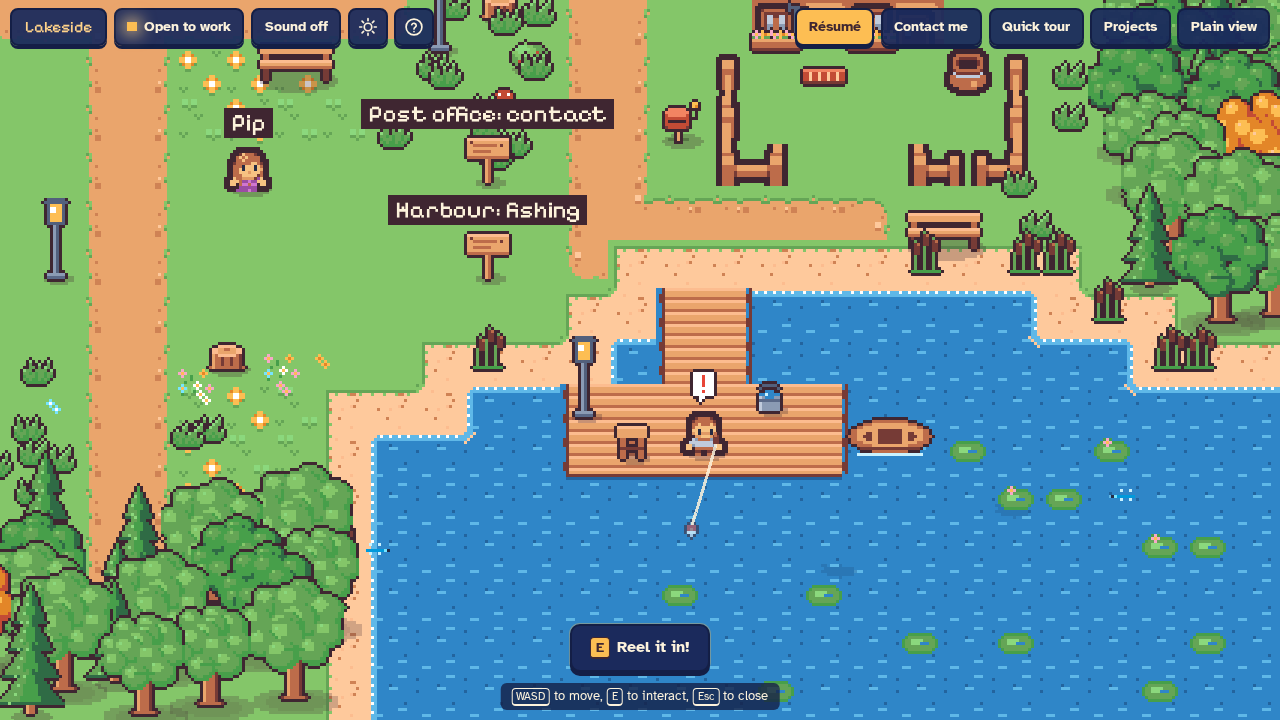
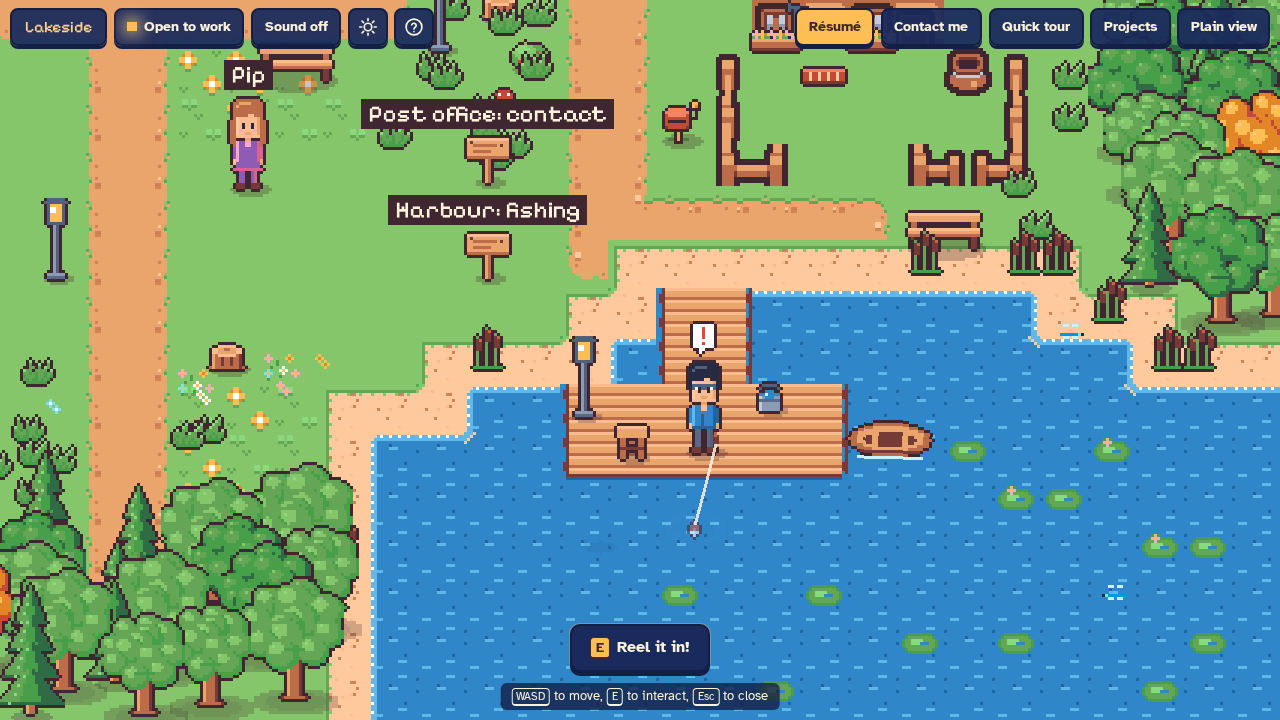
art(characters): Stardew-proportioned player and Pip with directional walks
- New 16x32 characters drawn by tools/art/characters.mjs (npm run art also
  writes sprites/player.png and npc.png as 64x96 sheets): big head, short
  torso, 6px legs, top-left light and ink outline, like Stardew Valley
- The player looks like Okkar (black hair, half-rim glasses, blue hoodie,
  grey trousers); Pip keeps her long brown hair and purple dress
- 4-frame walk cycles facing down, up and sideways (mirrored for left), with
  leg stride, arm swing and a step bob; the player faces the direction of
  travel and stands on the right frame when stopped
- The sprite is anchored so the feet stay exactly where they were: collisions,
  zones, depth sorting, the quick tour and fishing are unchanged (the '!'
  and the caught fish moved above the taller head; Pip's name label too)
- Pip walks with the right cycle, faces the player when greeting and faces
  visitors again at home; her dialogue portrait shows her new face
- CREDITS: characters are original now (Tiny Dungeon no longer used)

diff --git a/client/src/entities/WelcomeNpc.js b/client/src/entities/WelcomeNpc.js
@@ -16,10 +16,9 @@ export class WelcomeNpc {
   constructor(scene, x, bottomY, blockers) {
     this.scene = scene
     this.home = { x: x, y: bottomY }
-    this.sprite = scene.add.sprite(x, bottomY, 'npc', 0).setOrigin(0.5, 1)
-    this.sprite.play('npc-idle')
+    this.sprite = scene.add.sprite(x, bottomY, 'npc', 0).setOrigin(0.5, 1) // feet at bottomY
     this.shadow = addShadow(scene, x, bottomY - 1, 'shadow')
-    this.label = makeLabel(scene, x, bottomY - 18, guide.npcName, DEPTH.worldUi)
+    this.label = makeLabel(scene, x, bottomY - 34, guide.npcName, DEPTH.worldUi)
     this.blocker = addBlocker(scene, blockers, x, bottomY, 10, 5)
     this.syncExtras()
   }
@@ -30,7 +29,7 @@ export class WelcomeNpc {
     const y = this.sprite.y
     this.sprite.setDepth(DEPTH.world + y)
     this.shadow.setPosition(x + 1, y - 1)
-    this.label.setPosition(x, y - 18)
+    this.label.setPosition(x, y - 34)
   }
 
   walkTo(x, y, onArrive) {
@@ -38,8 +37,12 @@ export class WelcomeNpc {
     const distance = Math.sqrt((x - this.sprite.x) * (x - this.sprite.x) + (y - this.sprite.y) * (y - this.sprite.y))
     this.blocker.body.enable = false // don't shove the player while walking
     scene.tweens.killTweensOf(this.sprite)
-    this.sprite.setFlipX(x < this.sprite.x)
-    this.sprite.play('npc-walk', true)
+    // Walk cycle for the main direction of travel
+    const dx = x - this.sprite.x
+    const dy = y - this.sprite.y
+    this.facing = Math.abs(dx) > Math.abs(dy) ? 'side' : dy < 0 ? 'up' : 'down'
+    this.sprite.setFlipX(this.facing === 'side' && dx < 0)
+    this.sprite.play('npc-walk-' + this.facing, true)
     scene.tweens.add({
       targets: this.sprite,
       x: x,
@@ -49,7 +52,7 @@ export class WelcomeNpc {
       onUpdate: this.syncExtras,
       onUpdateScope: this,
       onComplete: function () {
-        this.sprite.play('npc-idle')
+        this.standStill()
         this.syncExtras()
         this.blocker.setPosition(x, y - 2.5)
         this.blocker.body.updateFromGameObject()
@@ -65,12 +68,25 @@ export class WelcomeNpc {
     const side = this.sprite.x >= player.x ? 1 : -1
     const self = this
     this.walkTo(player.x + side * 18, player.y + 8, function () {
-      self.sprite.setFlipX(side > 0) // face the player
+      self.facing = 'side'
+      self.sprite.setFlipX(side > 0) // face the player (side frames face right)
+      self.standStill()
       if (onArrive) onArrive()
     })
   }
 
+  // Stand on the first frame of the current direction.
+  standStill() {
+    this.sprite.anims.stop()
+    const rows = { down: 0, up: 4, side: 8 }
+    this.sprite.setFrame(rows[this.facing || 'down'])
+  }
+
   goHome() {
-    this.walkTo(this.home.x, this.home.y, null)
+    const self = this
+    this.walkTo(this.home.x, this.home.y, function () {
+      self.facing = 'down' // back home: face the visitors again
+      self.standStill()
+    })
   }
 }

diff --git a/client/src/scenes/BootScene.js b/client/src/scenes/BootScene.js
@@ -37,9 +37,10 @@ export class BootScene extends Phaser.Scene {
     // The village map, made in Tiled and exported as JSON
     this.load.tilemapTiledJSON('village-map', ASSETS + 'maps/village.json')
 
-    // Characters: 2 frames each (standing, mid-step)
-    this.load.spritesheet('player', ASSETS + 'sprites/player.png', { frameWidth: 16, frameHeight: 16 })
-    this.load.spritesheet('npc', ASSETS + 'sprites/npc.png', { frameWidth: 16, frameHeight: 16 })
+    // Characters: 16 x 32 frames (Stardew proportions), drawn by
+    // tools/art/characters.mjs. Rows: facing down, up, right; 4 walk frames each.
+    this.load.spritesheet('player', ASSETS + 'sprites/player.png', { frameWidth: 16, frameHeight: 32 })
+    this.load.spritesheet('npc', ASSETS + 'sprites/npc.png', { frameWidth: 16, frameHeight: 32 })
 
     // Props placed on the map's "Props" layer (the name must match the "sprite" property in Tiled)
     this.load.image('mailbox', ASSETS + 'sprites/mailbox.png')
@@ -48,24 +49,20 @@ export class BootScene extends Phaser.Scene {
   }
 
   create() {
-    // Walking: swap between the two frames.
-    this.anims.create({
-      key: 'player-walk',
-      frames: this.anims.generateFrameNumbers('player', { start: 0, end: 1 }),
-      frameRate: 7,
-      repeat: -1,
-    })
-
-    // The villager gently bobs while standing.
-    this.anims.create({
-      key: 'npc-idle',
-      frames: this.anims.generateFrameNumbers('npc', { frames: [0, 0, 0, 1] }),
-      frameRate: 3,
-      repeat: -1,
-    })
-
-    // Pip walking (same two frames as idle, faster).
-    this.anims.create({ key: 'npc-walk', frames: this.anims.generateFrameNumbers('npc', { start: 0, end: 1 }), frameRate: 7, repeat: -1 })
+    // Walk cycles for both characters, one per direction:
+    // 'player-walk-down', 'player-walk-up', 'player-walk-side' (same for 'npc').
+    const characters = ['player', 'npc']
+    const directions = ['down', 'up', 'side']
+    for (let c = 0; c < characters.length; c++) {
+      for (let d = 0; d < directions.length; d++) {
+        this.anims.create({
+          key: characters[c] + '-walk-' + directions[d],
+          frames: this.anims.generateFrameNumbers(characters[c], { start: d * 4, end: d * 4 + 3 }),
+          frameRate: 8,
+          repeat: -1,
+        })
+      }
+    }
 
     createDecorAnimations(this)
     createGlowTexture(this)

diff --git a/client/src/entities/Player.js b/client/src/entities/Player.js
@@ -17,9 +17,13 @@ export class Player extends Phaser.Physics.Arcade.Sprite {
     scene.add.existing(this)
     scene.physics.add.existing(this)
 
-    // Only the feet collide, so the head can overlap things "behind" it.
+    // The sprite is 16 x 32. Its anchor sits 3/4 of the way down (the hips), so
+    // the feet are 8px below the player's y, as with the old 16px sprite.
+    this.setOrigin(0.5, 0.75)
+    // Only the feet collide, so the head and body can overlap things "behind" it.
     this.body.setSize(10, 6)
-    this.body.setOffset(3, 10)
+    this.body.setOffset(3, 26)
+    this.facing = 'down' // 'down', 'up' or 'side' (side + flipX = left)
     this.setCollideWorldBounds(true)
 
     // Keyboard keys: arrows and WASD.
@@ -116,16 +120,36 @@ export class Player extends Phaser.Physics.Arcade.Sprite {
     }
     this.setVelocity(dx * PLAYER_SPEED, dy * PLAYER_SPEED)
 
-    // Animation: a small two-frame "step" while moving.
+    // Animation: the walk cycle for the direction we're moving in.
     if (length > 0.1) {
-      this.anims.play('player-walk', true)
-      if (dx < -0.1) this.setFlipX(true)
-      if (dx > 0.1) this.setFlipX(false)
+      this.walkToward(dx, dy)
     } else {
-      this.anims.stop()
-      this.setFrame(0)
+      this.stand()
     }
 
     this.updateDepth()
+  }
+
+  // Pick the facing from a movement direction and play that walk cycle.
+  walkToward(dx, dy) {
+    this.faceToward(dx, dy)
+    this.anims.play('player-walk-' + this.facing, true)
+  }
+
+  // Turn to face a direction without walking (e.g. towards the water).
+  faceToward(dx, dy) {
+    if (Math.abs(dx) > Math.abs(dy)) {
+      this.facing = 'side'
+      this.setFlipX(dx < 0) // the side frames face right
+    } else if (dy !== 0) {
+      this.facing = dy < 0 ? 'up' : 'down'
+    }
+  }
+
+  // Standing still: the first frame of the current direction's row.
+  stand() {
+    this.anims.stop()
+    const rows = { down: 0, up: 4, side: 8 }
+    this.setFrame(rows[this.facing])
   }
 }

diff --git a/client/src/systems/Fishing.js b/client/src/systems/Fishing.js
@@ -113,7 +113,8 @@ export class Fishing {
     this.mode = 'casting'
     this.direction = spot.direction
     this.target = { x: spot.x + Phaser.Math.Between(-4, 4), y: spot.y + Phaser.Math.Between(-3, 3) }
-    if (spot.direction.x !== 0) this.player.setFlipX(spot.direction.x < 0) // face the water
+    this.player.faceToward(spot.direction.x, spot.direction.y) // face the water
+    this.player.stand()
     // Look out over the water, so the bobber isn't hidden behind the prompt.
     this.scene.cameras.main.setFollowOffset(-spot.direction.x * 34, -spot.direction.y * 34)
     this.setPrompt('Casting…')
@@ -196,7 +197,7 @@ export class Fishing {
     this.tipDip = 3
     this.water.ripple(this.target.x, this.target.y + 2)
     this.later(120, function () { this.water.ripple(this.target.x - 2, this.target.y + 3) })
-    this.bang.setPosition(this.player.x, this.player.y - 15).setVisible(true).setScale(0.5)
+    this.bang.setPosition(this.player.x, this.player.y - 31).setVisible(true).setScale(0.5)
     this.scene.tweens.add({ targets: this.bang, scale: 1, duration: 140, ease: 'Back.easeOut' })
     this.later(BITE_WINDOW, function () {
       if (this.mode !== 'bite') return
@@ -225,7 +226,7 @@ export class Fishing {
     this.bobber.setVisible(false)
     this.caught.setFrame(catchInfo.fish.sprite).setPosition(from.x, from.y).setVisible(true).setAngle(0)
     const leap = { t: 0 }
-    const to = { x: this.player.x, y: this.player.y - 15 }
+    const to = { x: this.player.x, y: this.player.y - 31 }
     this.scene.tweens.add({
       targets: leap,
       t: 1,

diff --git a/client/src/styles/game.css b/client/src/styles/game.css
@@ -426,8 +426,9 @@ body.game-page {
   height: 64px;
   border: 2px solid var(--dusk-deep);
   border-radius: 8px;
-  background: var(--paper-2) no-repeat 0 0;
-  background-size: 128px 64px; /* 2 frames; show the first */
+  /* Pip's sprite sheet (16 x 32 frames) at 4x, showing the head of frame 1 */
+  background: var(--paper-2) no-repeat 0 -2px;
+  background-size: 256px 384px;
   image-rendering: pixelated;
   box-shadow: 0 0 0 2px rgba(253, 190, 83, 0.5);
 }
@@ -483,7 +484,8 @@ body.game-page {
   .dialogue-face {
     width: 44px;
     height: 44px;
-    background-size: 88px 44px;
+    background-size: 176px 264px;
+    background-position: 0 -1px;
   }
   .dialogue-actions .btn {
     flex: 1 1 auto;

diff --git a/client/src/scenes/sceneHelpers.js b/client/src/scenes/sceneHelpers.js
@@ -191,8 +191,7 @@ export function moveToZone(scene, player, zone, onArrive) {
       followOffset: { x: 0, y: 4 },
     }).setDepth(DEPTH.worldUi)
   }
-  player.anims.play('player-walk', true)
-  player.setFlipX(targetX < player.x)
+  player.walkToward(targetX - player.x, targetY - player.y)
 
   scene.tweens.add({
     targets: player,
@@ -203,8 +202,7 @@ export function moveToZone(scene, player, zone, onArrive) {
     onComplete: function () {
       player.body.enable = true
       player.body.reset(targetX, targetY)
-      player.anims.stop()
-      player.setFrame(0)
+      player.stand()
       state.touring = false
       if (trail) {
         trail.stop()

diff --git a/CREDITS.md b/CREDITS.md
@@ -7,7 +7,6 @@ Everything below is free to use in a personal portfolio, including commercially.
 | Asset | Used for | Author | Licence |
 |---|---|---|---|
 | [Tiny Town 1.1](https://kenney.nl/assets/tiny-town) | Village tiles: grass, dirt paths, trees, houses and roofs, fences, well, barrels, beehives, logs (`client/public/assets/tilesets/tiny-town.png`) | Kenney (kenney.nl) | [CC0 1.0 (public domain)](https://creativecommons.org/publicdomain/zero/1.0/) |
-| [Tiny Dungeon 1.0](https://kenney.nl/assets/tiny-dungeon) | Source of the player and Pip characters (tiles 85 and 99) | Kenney (kenney.nl) | [CC0 1.0 (public domain)](https://creativecommons.org/publicdomain/zero/1.0/) |
 
 CC0 means no attribution is required, but crediting Kenney is a nice thing to do (this file does that).
 
@@ -19,7 +18,7 @@ All of this was drawn for this project, either as small hand-drawn sprites or by
 
 | File | What's in it |
 |---|---|
-| `client/public/assets/sprites/player.png`, `npc.png` | 2-frame walk/idle sheets built from the Tiny Dungeon characters (second frame = body raised 1 px) |
+| `client/public/assets/sprites/player.png`, `npc.png` | The player (Okkar: black hair, glasses, blue hoodie) and Pip, at Stardew-style 16×32 proportions with 4-frame walk cycles facing down, up and sideways. Drawn by `client/tools/art/characters.mjs` |
 | `client/public/assets/sprites/mailbox.png`, `noticeboard.png`, `stall.png` | Village props |
 | `client/public/assets/atlas/decor.png` (+ `decor.json`) | ~110 generated sprites: shadows, tall grass, flowers, stones, stumps, crops, fountain, signposts, lamps, benches, fence ivy and flowers, a bluebird; chimneys, porches, doormats, flower boxes, lanterns, potted plants, market goods; all house and workshop furniture (bed, bookshelves, desk, laptop, mug, armchair, rug, fireplace and flames, frames, plants, lamps, string lights, sleeping cat, tool rack, blueprints, workbench, project models); lily pads, reeds, bubbles, fish and fish shadows, dragonflies, dock stool, bucket; weather particles (rain, splash, snow, petals, leaves, smoke) and puddles; guide arrow, sparkle, "!" bubble and bobber |
 | `client/public/assets/tilesets/extras.png` | Generated 16×16 tiles: cliff, forest floor, soil, cobbles, lake water (2 frames, 13 shore shapes), sand, dock planks, wood/stone floors, wallpaper and brick walls |
@@ -52,5 +51,6 @@ The ambient sound (wind, birdsong, rain and thunder) is synthesised in the brows
   build a new map in Tiled (see README).
 - **Generated sprites**: edit the drawing code in `client/tools/art/` and run `npm run art`, or replace
   a frame in the atlas with your own art of the same size.
-- **Characters**: replace `client/public/assets/sprites/player.png` / `npc.png` with any 32×16 PNG
-  (two 16×16 frames side by side).
+- **Characters**: change the colours or shapes in `client/tools/art/characters.mjs` and run `npm run art`,
+  or replace `player.png` / `npc.png` with your own 64×96 sheet (16×32 frames; rows: facing down, up,
+  right; 4 walk frames per row).
